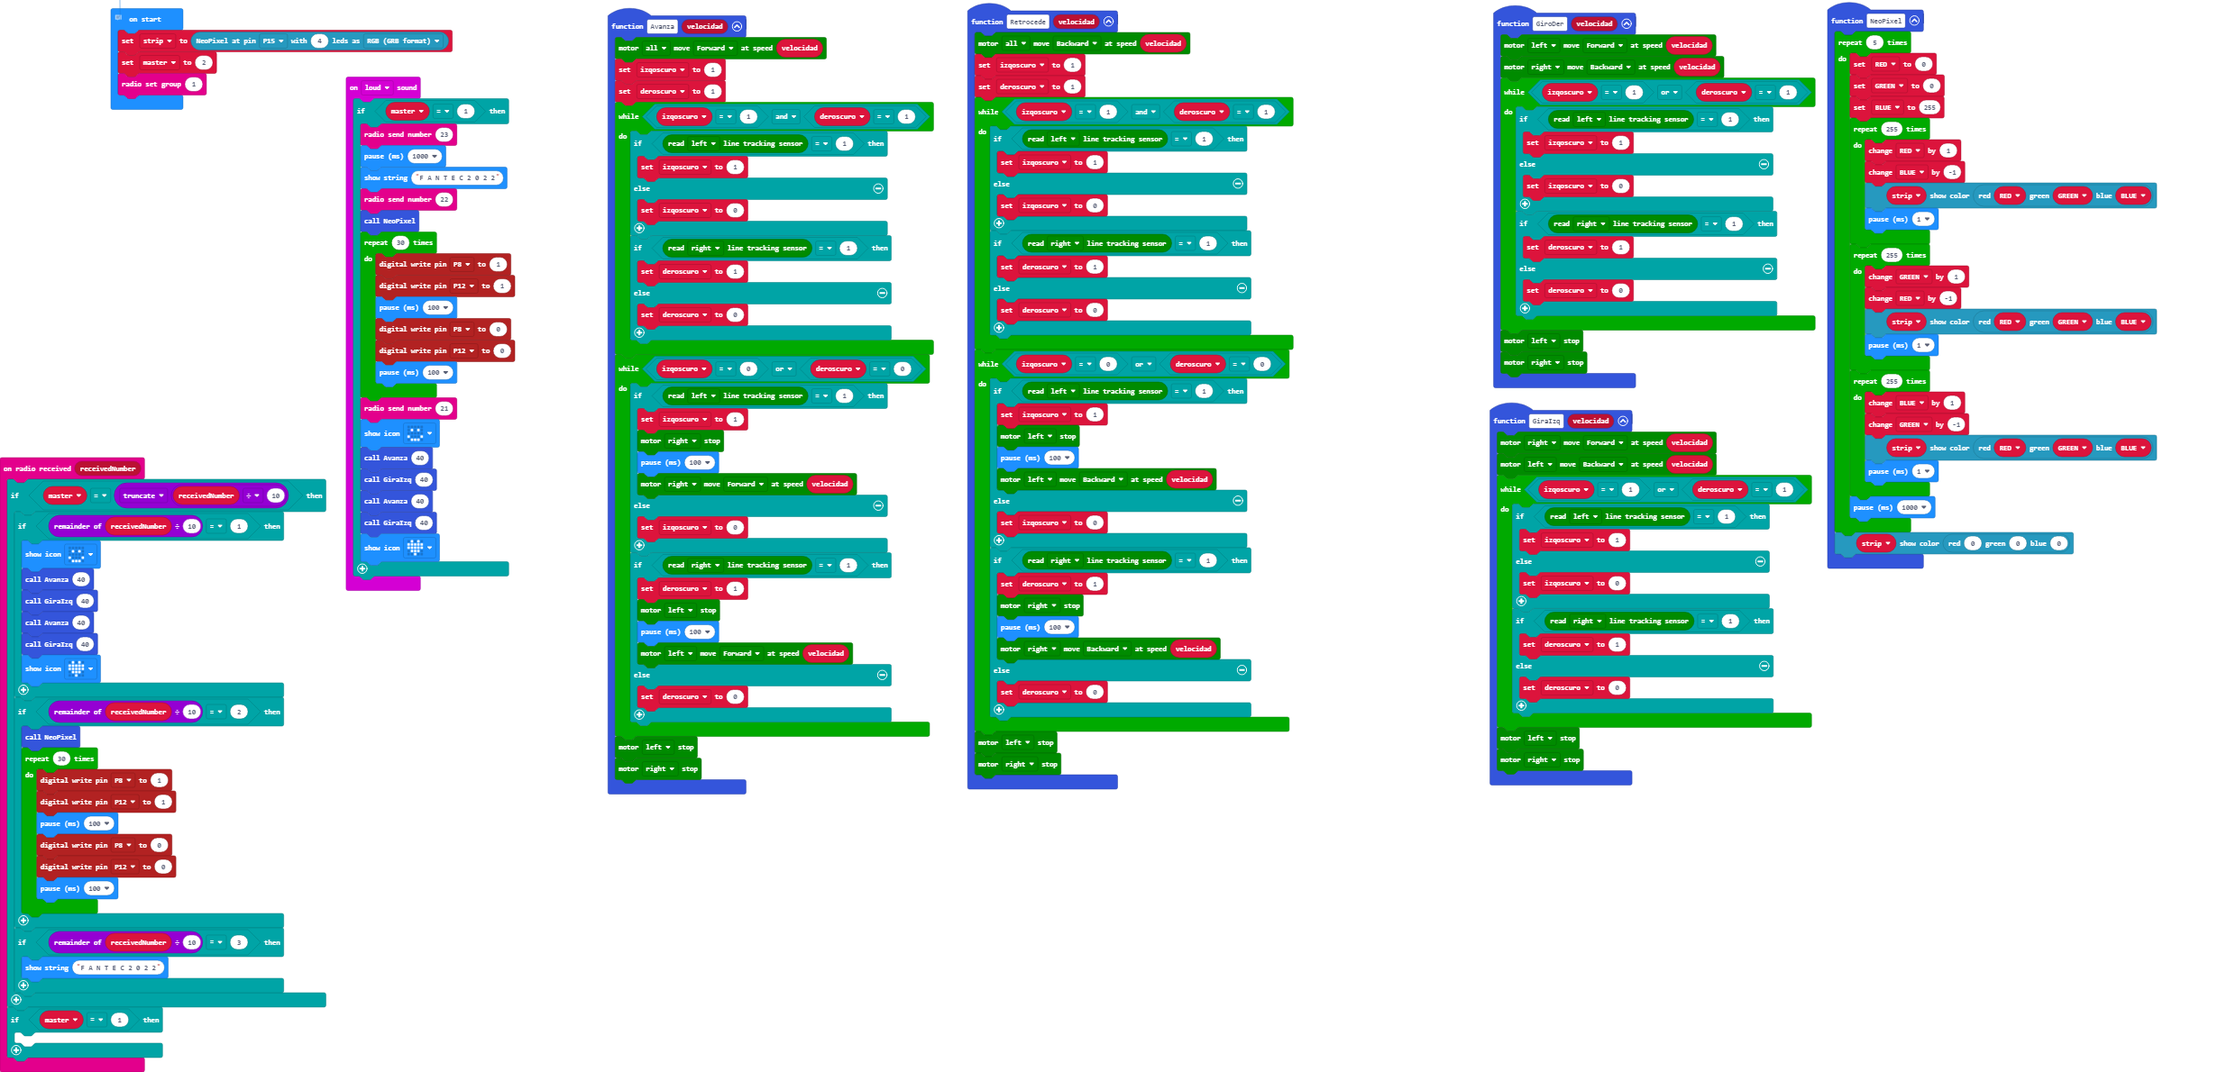
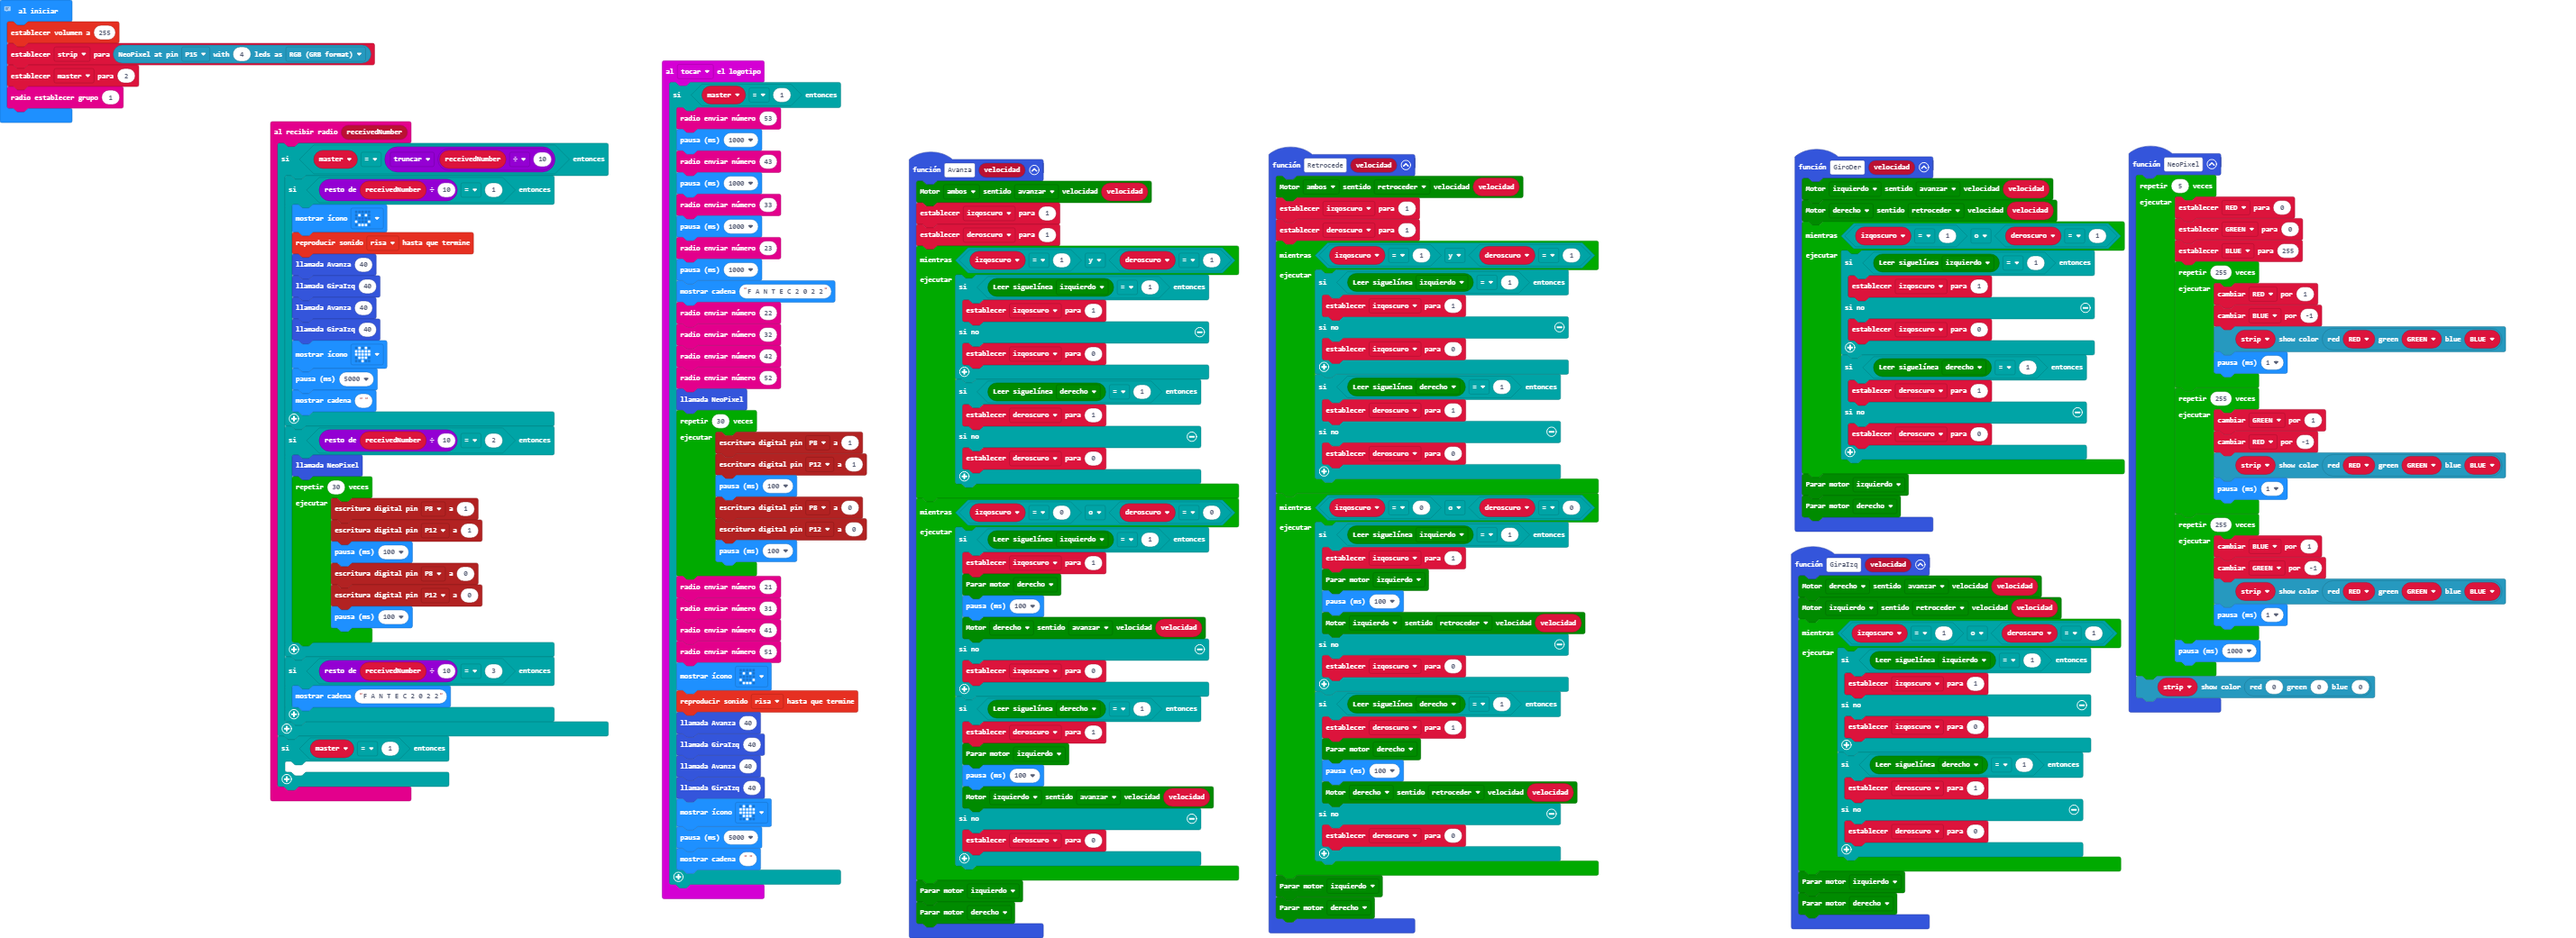
Configurado para 5 microbits. Con sonido

diff --git a/main.ts b/main.ts
@@ -2,11 +2,14 @@ radio.onReceivedNumber(function (receivedNumber) {
     if (master == Math.trunc(receivedNumber / 10)) {
         if (receivedNumber % 10 == 1) {
             basic.showIcon(IconNames.Happy)
+            soundExpression.giggle.playUntilDone()
             Avanza(40)
             GiraIzq(40)
             Avanza(40)
             GiraIzq(40)
             basic.showIcon(IconNames.Heart)
+            basic.pause(5000)
+            basic.showString("")
         }
         if (receivedNumber % 10 == 2) {
             NeoPixel()
@@ -82,30 +85,6 @@ function GiraIzq (velocidad: number) {
     maqueen.motorStop(maqueen.Motors.M1)
     maqueen.motorStop(maqueen.Motors.M2)
 }
-input.onSound(DetectedSound.Loud, function () {
-    if (master == 1) {
-        radio.sendNumber(23)
-        basic.pause(1000)
-        basic.showString("F A N T E C 2 0 2 2")
-        radio.sendNumber(22)
-        NeoPixel()
-        for (let index = 0; index < 30; index++) {
-            pins.digitalWritePin(DigitalPin.P8, 1)
-            pins.digitalWritePin(DigitalPin.P12, 1)
-            basic.pause(100)
-            pins.digitalWritePin(DigitalPin.P8, 0)
-            pins.digitalWritePin(DigitalPin.P12, 0)
-            basic.pause(100)
-        }
-        radio.sendNumber(21)
-        basic.showIcon(IconNames.Happy)
-        Avanza(40)
-        GiraIzq(40)
-        Avanza(40)
-        GiraIzq(40)
-        basic.showIcon(IconNames.Heart)
-    }
-})
 function GiroDer (velocidad: number) {
     maqueen.motorRun(maqueen.Motors.M1, maqueen.Dir.CW, velocidad)
     maqueen.motorRun(maqueen.Motors.M2, maqueen.Dir.CCW, velocidad)
@@ -161,6 +140,45 @@ function Retrocede (velocidad: number) {
     maqueen.motorStop(maqueen.Motors.M1)
     maqueen.motorStop(maqueen.Motors.M2)
 }
+input.onLogoEvent(TouchButtonEvent.Touched, function () {
+    if (master == 1) {
+        radio.sendNumber(53)
+        basic.pause(1000)
+        radio.sendNumber(43)
+        basic.pause(1000)
+        radio.sendNumber(33)
+        basic.pause(1000)
+        radio.sendNumber(23)
+        basic.pause(1000)
+        basic.showString("F A N T E C 2 0 2 2")
+        radio.sendNumber(22)
+        radio.sendNumber(32)
+        radio.sendNumber(42)
+        radio.sendNumber(52)
+        NeoPixel()
+        for (let index = 0; index < 30; index++) {
+            pins.digitalWritePin(DigitalPin.P8, 1)
+            pins.digitalWritePin(DigitalPin.P12, 1)
+            basic.pause(100)
+            pins.digitalWritePin(DigitalPin.P8, 0)
+            pins.digitalWritePin(DigitalPin.P12, 0)
+            basic.pause(100)
+        }
+        radio.sendNumber(21)
+        radio.sendNumber(31)
+        radio.sendNumber(41)
+        radio.sendNumber(51)
+        basic.showIcon(IconNames.Happy)
+        soundExpression.giggle.playUntilDone()
+        Avanza(40)
+        GiraIzq(40)
+        Avanza(40)
+        GiraIzq(40)
+        basic.showIcon(IconNames.Heart)
+        basic.pause(5000)
+        basic.showString("")
+    }
+})
 function NeoPixel () {
     for (let index = 0; index < 5; index++) {
         RED = 0
@@ -200,6 +218,7 @@ let deroscuro = 0
 let izqoscuro = 0
 let master = 0
 let strip: neopixel.Strip = null
+music.setVolume(255)
 strip = neopixel.create(DigitalPin.P15, 4, NeoPixelMode.RGB)
 master = 2
 radio.setGroup(1)
